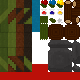
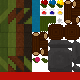
Updated Tileset, added more pretty flowers

Changed region(s): [[0.4, 0.375, 0.6, 0.9], [0.5, 0.2, 0.7, 0.3]]

diff --git a/src/main/java/org/bytefire/ld48/util/TextureLoader.java b/src/main/java/org/bytefire/ld48/util/TextureLoader.java
@@ -60,8 +60,8 @@ public class TextureLoader {
         tex = getTexture(resourceName,
             GL_TEXTURE_2D, // target
             GL_RGBA,     // dst pixel format
-            GL_LINEAR, // min filter (unused)
-            GL_LINEAR);
+            GL_NEAREST, // min filter (unused)
+            GL_NEAREST);
         table.put(resourceName,tex);
         return tex;
     }
